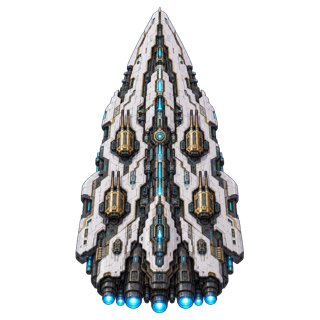
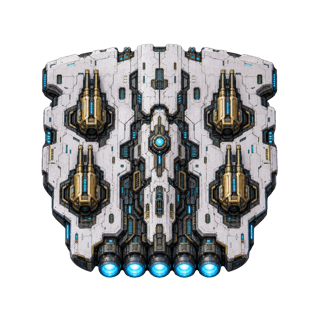
Differentiate Judicator battleship silhouette

diff --git a/src/assets/aegis/README.md b/src/assets/aegis/README.md
@@ -2,4 +2,4 @@
 
 Top-down unit sprites generated for the Aegis Directorate roster. The shared white ceramic armor, gold shield hardware, and cyan power systems distinguish Aegis units from the Human Coalition at production-card, battlefield, and galaxy-map scales.
 
-The Farcast Scout uses a narrow, engine-forward silhouette for its high-speed reconnaissance role. Each Tier 2 successor has its own larger cruiser artwork: expanded troop vaults, shield rings, twin lances, flak-turret arrays, and concentric resonance hardware make the upgrade visible before the player reads its label. The Tier 3 Judicator Battleship uses a broad spearhead hull and four gold rail-lance turrets, giving Aegis a distinct line-capital silhouette between the Citadel Mega-Carrier and Sovereign Titan.
+The Farcast Scout uses a narrow, engine-forward silhouette for its high-speed reconnaissance role. Each Tier 2 successor has its own larger cruiser artwork: expanded troop vaults, shield rings, twin lances, flak-turret arrays, and concentric resonance hardware make the upgrade visible before the player reads its label. The Tier 3 Judicator Battleship uses a low hammerhead hull and four gold rail-lance turrets, giving Aegis a distinct line-capital silhouette between the Citadel Mega-Carrier and Sovereign Titan.
